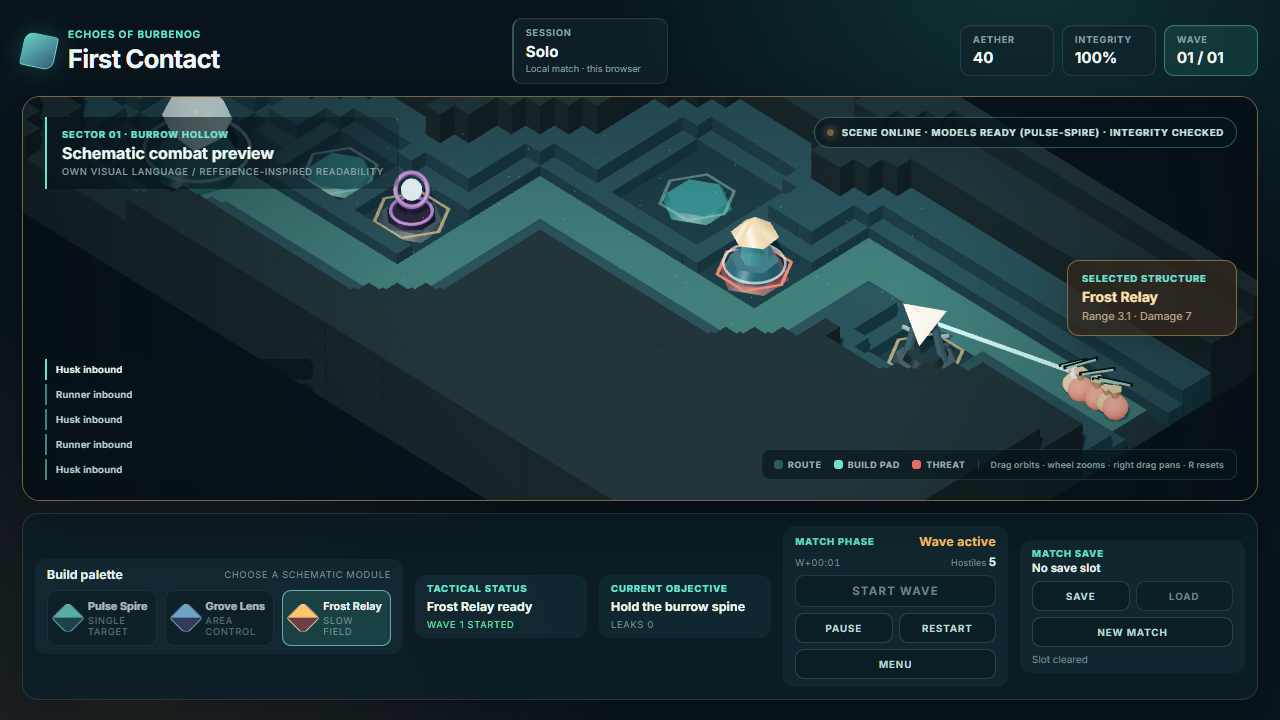
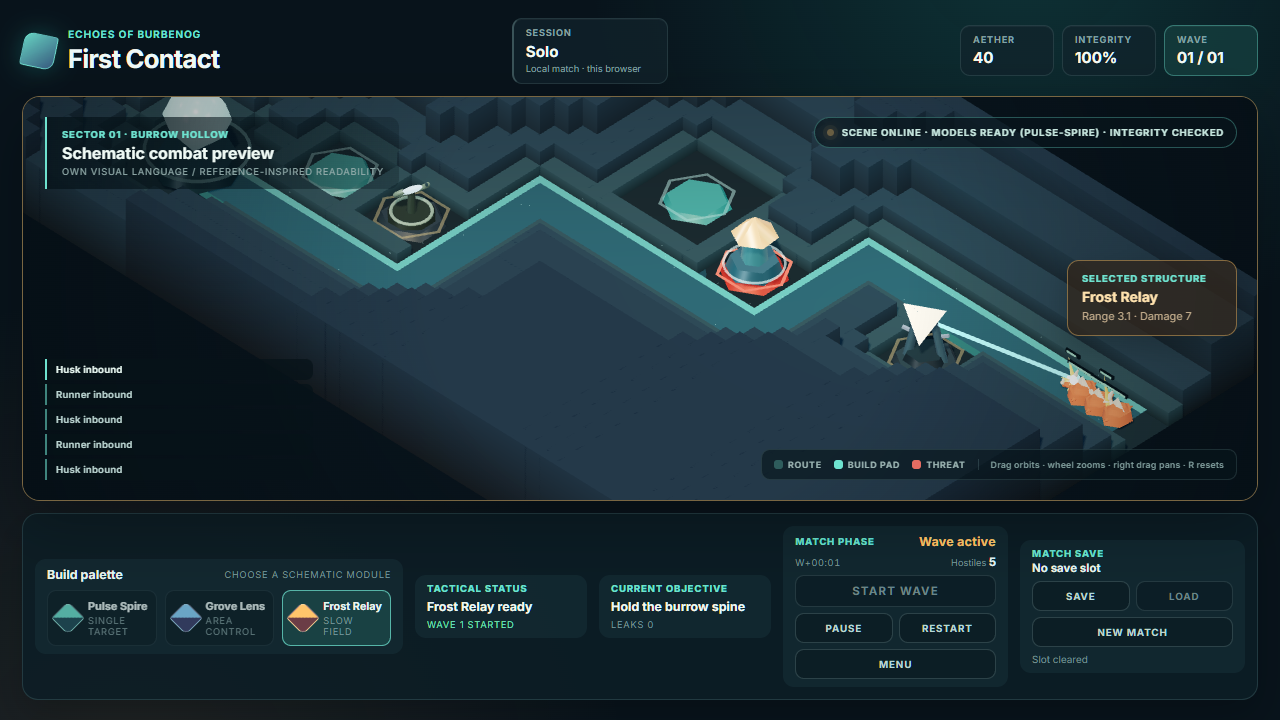
Развести grove-lens с wisp после 0022

diff --git a/src/client/towers.ts b/src/client/towers.ts
@@ -256,10 +256,19 @@ const spireBody = (seat: THREE.Object3D, look: TowerLook): THREE.Mesh => {
 };
 
 // Grove Lens: the opposite of the spire on both axes at once — wider than it is tall, and open in
-// the middle. A short post carries a big ring that leans back, and the lens lies in the plane of
-// that ring rather than sitting on top of it, so the tower reads as an eye and not as a roof with a
-// gem on it. The hole is the difference from an enemy, which is a solid round body.
-const lensTilt = -0.72;
+// the middle. A short post carries a cradle that leans back, and the lens lies in the plane of that
+// cradle rather than sitting on top of it, so the tower reads as an eye and not as a roof with a gem
+// on it. The cradle is a 270° arc, not a closed ring, and that is a correction rather than a style:
+// `0022` gave the wisp a closed halo around a round body, and a closed ring around a bright disc on a
+// violet drum was the same picture in the same colour. An opening is a bracket, a halo is a halo.
+// Tilted towards the player rather than away from them: the disc is flat along the cradle's own up,
+// so a lean that turned its face from the camera showed the lens edge-on and the cradle as a bowl with
+// a rim. This way the opening and the lens both face the road.
+const lensTilt = 0.72;
+const lensArc = (3 * Math.PI) / 2;
+// A torus sweep runs from angle 0, so the middle of the opening sits at `(arc + 2π) / 2`; this turns it
+// to the top of the ring, where a cradle opens.
+const lensArcTurn = Math.PI / 2 - (lensArc + Math.PI * 2) / 2;
 const lensBody = (seat: THREE.Object3D, look: TowerLook): THREE.Mesh => {
   structurePart(seat, {
     geometry: new THREE.CylinderGeometry(0.5, 0.56, 0.18, 8),
@@ -286,25 +295,31 @@ const lensBody = (seat: THREE.Object3D, look: TowerLook): THREE.Mesh => {
     roughness: 0.35,
     metalness: 0.5,
   });
-  const frame = structurePart(seat, {
-    geometry: new THREE.TorusGeometry(0.36, 0.055, 8, 24),
+  // The cradle is tilted on a mount of its own, so the lean and the turn of the opening are two
+  // rotations that cannot fight over one axis.
+  const cradle = new THREE.Group();
+  cradle.position.y = 0.78;
+  cradle.rotation.x = lensTilt;
+  seat.add(cradle);
+  const frame = structurePart(cradle, {
+    geometry: new THREE.TorusGeometry(0.36, 0.055, 8, 24, lensArc),
     color: look.roof,
     role: 'towerRoof',
-    y: 0.78,
+    y: 0,
     roughness: 0.28,
     metalness: 0.45,
   });
-  frame.rotation.x = lensTilt;
+  frame.rotation.z = lensArcTurn;
   // Flattened in the geometry rather than in the node's scale, because the scale of this node belongs
   // to the shot flash: a flash that swelled the lens along one axis only would read as a squashed
-  // gem instead of a bright one. The disc is narrower than the ring's aperture on purpose — a lens
-  // that fills its frame reads as a ball in a hoop, and the hole is the whole difference from an enemy.
+  // gem instead of a bright one. The disc is narrower than the aperture on purpose — a lens that
+  // fills its frame reads as a ball in a hoop.
   const lensGeometry = new THREE.SphereGeometry(0.24, 14, 10);
   lensGeometry.scale(1, 0.32, 1);
-  const lens = crystalPart(seat, lensGeometry, look.accent, 0.78, 0.16, 0.1);
+  const lens = crystalPart(cradle, lensGeometry, look.accent, 0, 0.16, 0.1);
   // A sphere is flat along its own Y, so this quarter turn is what puts the lens in the plane of the
-  // ring instead of flat on the post.
-  lens.rotation.x = lensTilt + Math.PI / 2;
+  // cradle instead of flat on the post.
+  lens.rotation.x = Math.PI / 2;
   return lens;
 };
 
@@ -383,9 +398,13 @@ const towerLooks: Record<string, TowerLook> = {
   },
   'grove-lens': {
     accent: 0x8cd6ff,
-    base: 0x2b2740,
-    stem: 0x413a63,
-    roof: 0x8d6bb5,
+    // Pale sage rather than the violet this tower started in. The violet is the wisp's: `0022` gave it
+    // a purple body in a halo, and a violet tower in a violet ring on the same board meant two
+    // readings of one shape in one colour. A desaturated sage is clear of the enemies (orange, amber,
+    // purple), clear of the spire's teal, and the name was asking for it anyway.
+    base: 0x2c3a33,
+    stem: 0x41544a,
+    roof: 0x7f9a86,
     scale: 0.94,
     tiltX: 0,
     tiltZ: 0.02,
